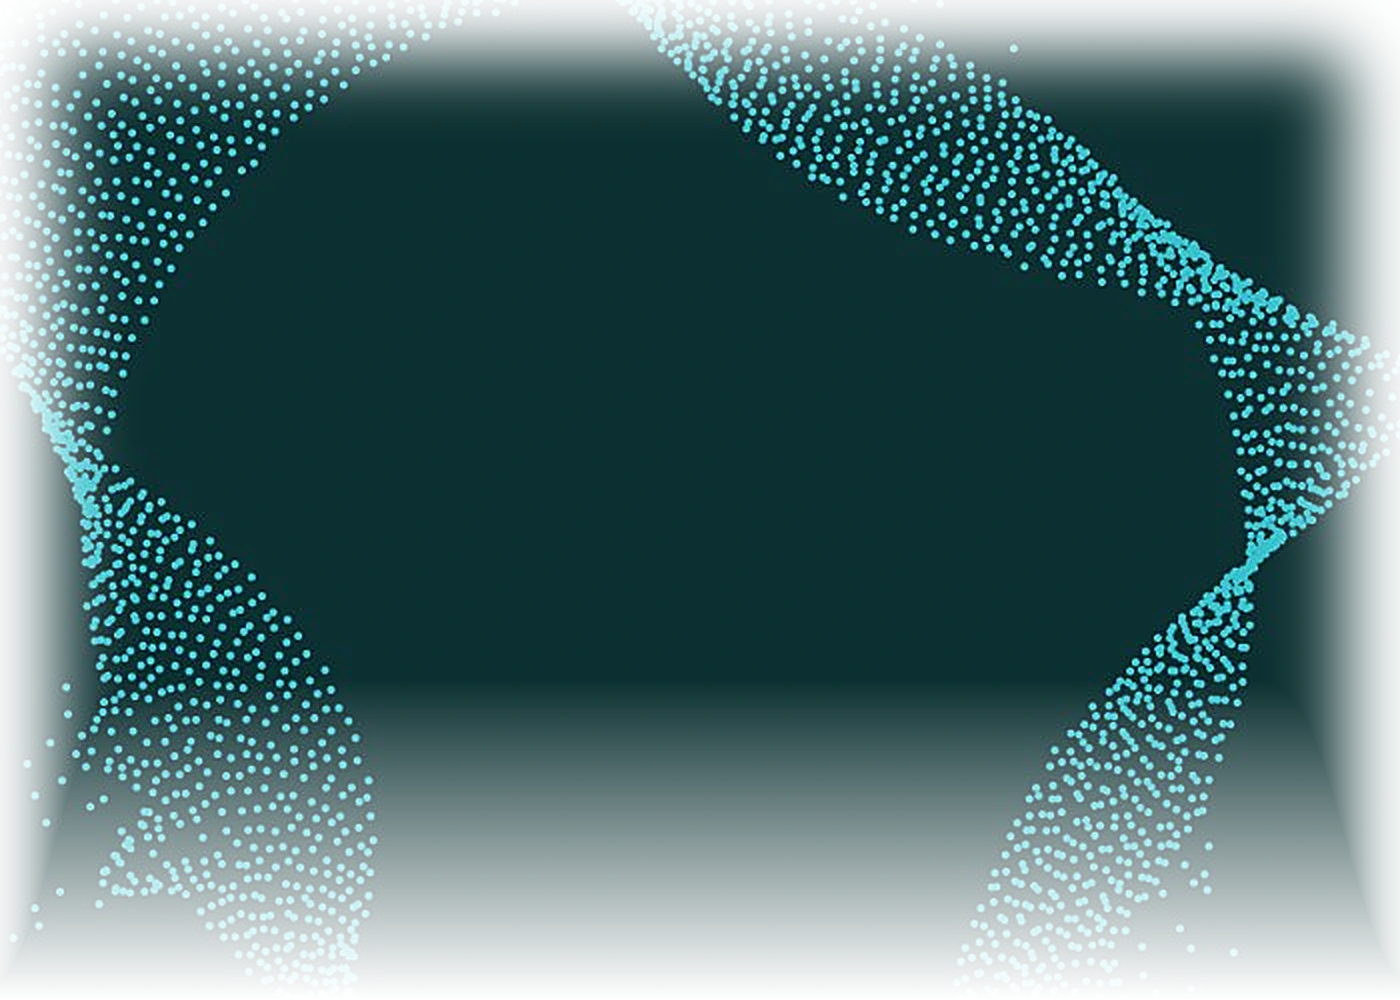
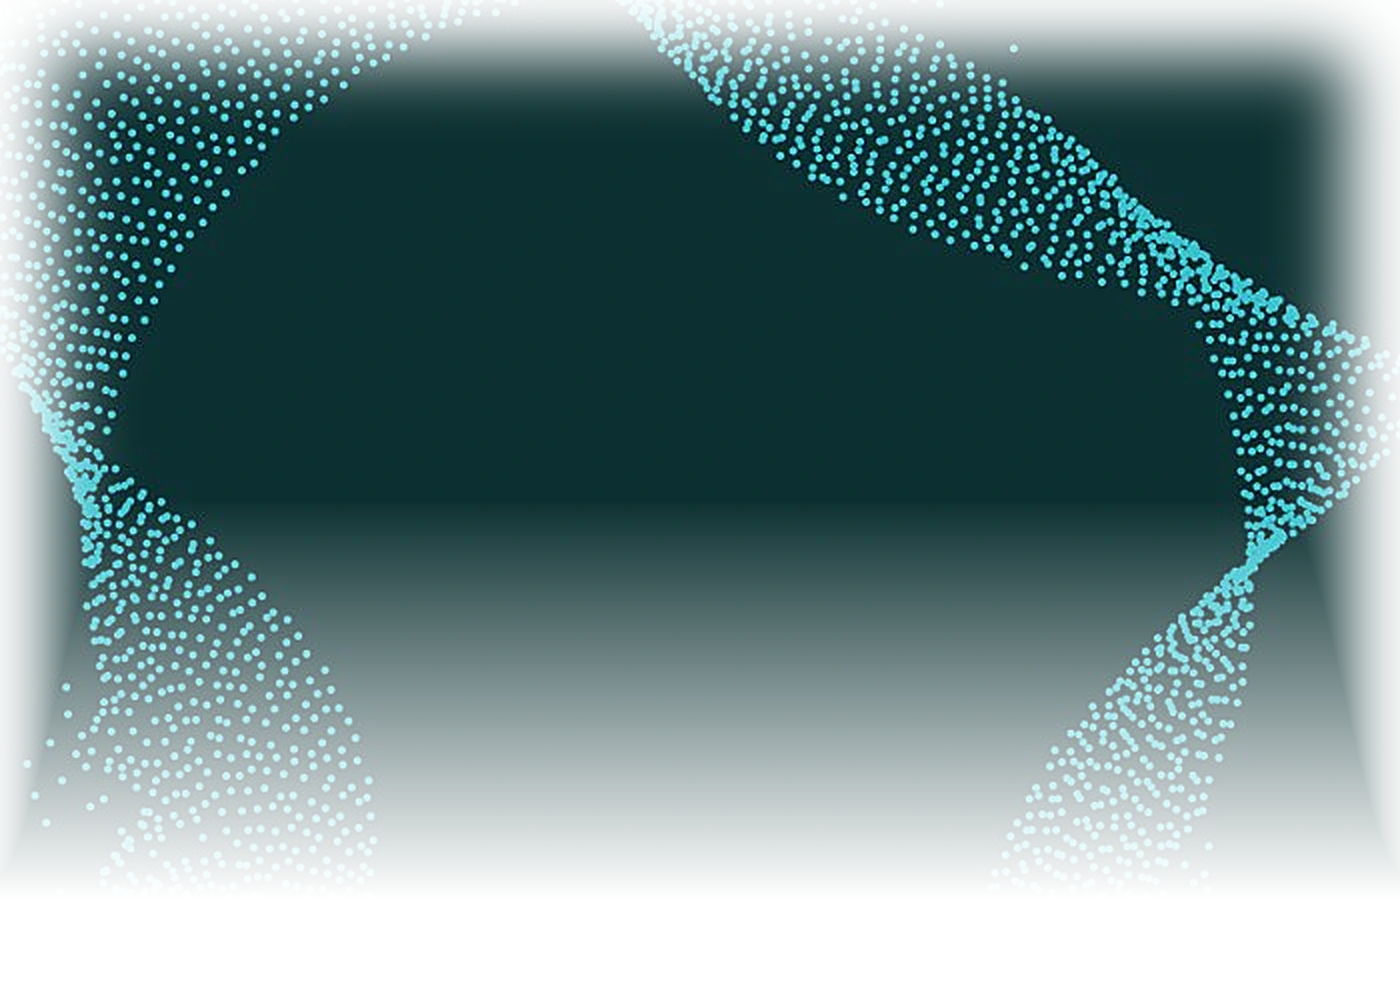
Fix residual hard edge: parallax scale was cropping the fade margin
The scroll parallax's scale(1.12) zoomed into the already cover-fitted
background, cropping away part of the fully-transparent bottom margin
baked into the image and leaving a partially-faded (still visible)
edge. Removed the scale — translateY alone is enough for the parallax
effect and no longer eats into the fade.

Also widened the baked-in fade band itself (starts at 50% of image
height instead of 68%, reaching full transparency by 90%) as extra
safety margin so the transition stays smooth across viewport aspect
ratios and scroll positions.

diff --git a/assets/js/main.js b/assets/js/main.js
@@ -27,7 +27,9 @@
         if (heroGlow) heroGlow.style.transform = "translateY(" + (p * 100) + "px)";
         // Background lags behind the scroll (classic parallax: moves slower
         // than the foreground text), so it visibly drifts as you scroll.
-        if (heroParticles) heroParticles.style.transform = "translateY(" + (p * 180) + "px) scale(1.12)";
+        // No scale here — zooming in cropped away the faded bottom margin
+        // baked into the image, which brought back a visible hard edge.
+        if (heroParticles) heroParticles.style.transform = "translateY(" + (p * 180) + "px)";
       }
     }
   };
